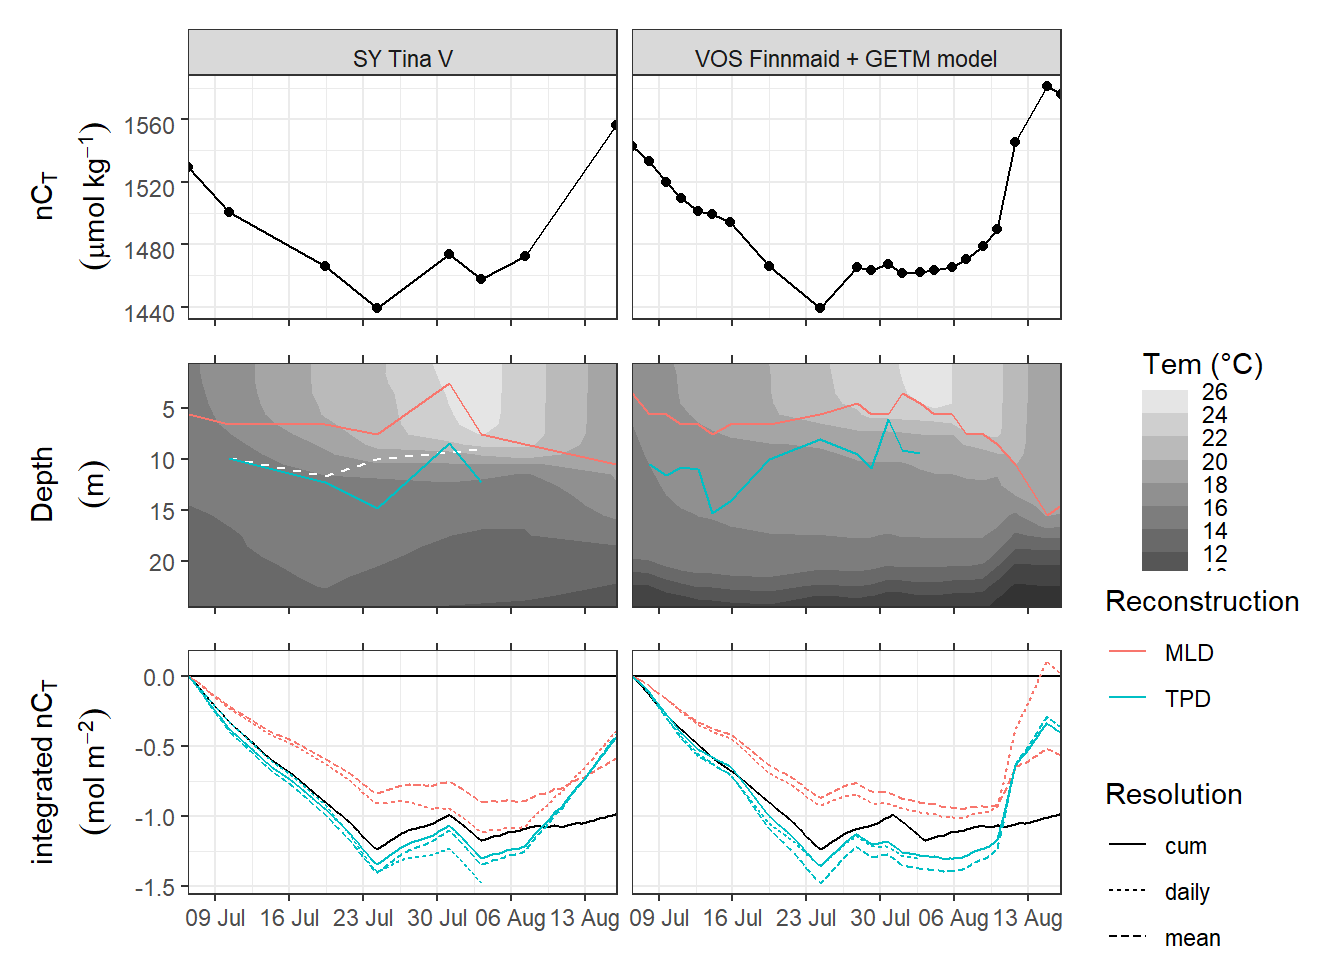
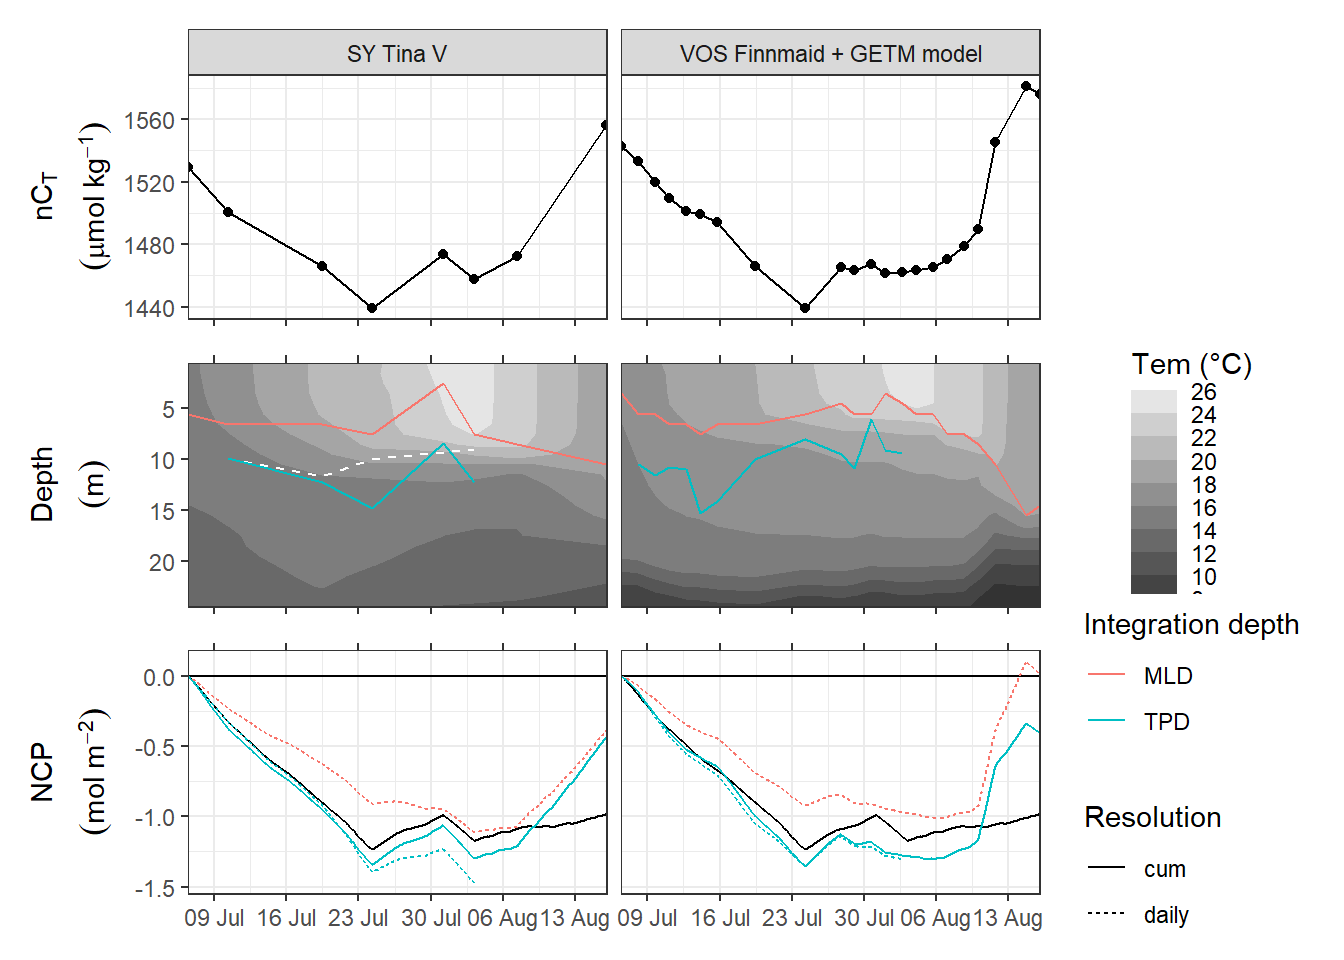
Build site.

diff --git a/docs/NCP_reconstruction.html b/docs/NCP_reconstruction.html
@@ -433,7 +433,7 @@ div.tocify {
 
 <h1 class="title toc-ignore">NCP reconstruction</h1>
 <h4 class="author">Jens Daniel Müller</h4>
-<h4 class="date">29 June, 2020</h4>
+<h4 class="date">01 July, 2020</h4>
 
 </div>
 
@@ -458,7 +458,7 @@ div.tocify {
 <div class="tab-content">
 <div id="summary" class="tab-pane fade in active">
 <p>
-<strong>Last updated:</strong> 2020-06-29
+<strong>Last updated:</strong> 2020-07-01
 </p>
 <p>
 <strong>Checks:</strong> <span class="glyphicon glyphicon-ok text-success" aria-hidden="true"></span> 7 <span class="glyphicon glyphicon-exclamation-sign text-danger" aria-hidden="true"></span> 0
@@ -549,16 +549,16 @@ This reproducible <a href="http://rmarkdown.rstudio.com">R Markdown</a> analysis
 <div class="panel panel-default">
 <div class="panel-heading">
 <p class="panel-title">
-<a data-toggle="collapse" data-parent="#workflowr-checks" href="#strongRepositoryversionstrongahrefhttpsgithubcomjensdanielmuellerBloomSailtree1461cb6d5fb3802d6d60858e4d204f6bc685b04ctargetblank1461cb6a"> <span class="glyphicon glyphicon-ok text-success" aria-hidden="true"></span> <strong>Repository version:</strong> <a href="https://github.com/jens-daniel-mueller/BloomSail/tree/1461cb6d5fb3802d6d60858e4d204f6bc685b04c" target="_blank">1461cb6</a> </a>
+<a data-toggle="collapse" data-parent="#workflowr-checks" href="#strongRepositoryversionstrongahrefhttpsgithubcomjensdanielmuellerBloomSailtree857208b9e951dea10fb480977fe4b52fba0d7309targetblank857208ba"> <span class="glyphicon glyphicon-ok text-success" aria-hidden="true"></span> <strong>Repository version:</strong> <a href="https://github.com/jens-daniel-mueller/BloomSail/tree/857208b9e951dea10fb480977fe4b52fba0d7309" target="_blank">857208b</a> </a>
 </p>
 </div>
[2 lines of base64/hex data omitted]
 <div class="panel-body">
 <p>
 Great! You are using Git for version control. Tracking code development and connecting the code version to the results is critical for reproducibility.
 </p>
 <p>
-The results in this page were generated with repository version <a href="https://github.com/jens-daniel-mueller/BloomSail/tree/1461cb6d5fb3802d6d60858e4d204f6bc685b04c" target="_blank">1461cb6</a>. See the <em>Past versions</em> tab to see a history of the changes made to the R Markdown and HTML files.
+The results in this page were generated with repository version <a href="https://github.com/jens-daniel-mueller/BloomSail/tree/857208b9e951dea10fb480977fe4b52fba0d7309" target="_blank">857208b</a>. See the <em>Past versions</em> tab to see a history of the changes made to the R Markdown and HTML files.
 </p>
 <p>
 Note that you need to be careful to ensure that all relevant files for the analysis have been committed to Git prior to generating the results (you can use <code>wflow_publish</code> or <code>wflow_git_commit</code>). workflowr only checks the R Markdown file, but you know if there are other scripts or data files that it depends on. Below is the status of the Git repository when the results were generated:
@@ -583,6 +583,9 @@ Untracked files:
     Untracked:  code/Vertical entrainment flux III.pdf
     Untracked:  output/Plots/Figures_publication/Appendix/Phytoplankton_mean_total_biomass.png
     Untracked:  output/Plots/Figures_publication/Appendix/TPD_CPD_cumulative.png
+    Untracked:  output/Plots/Figures_publication/Appendix/pCO2_RT_corrected_profile_example.png
+    Untracked:  output/Plots/Figures_publication/Appendix/pCO2_RT_corrected_profile_mean_abs_offset.png
+    Untracked:  output/Plots/Figures_publication/Appendix/tau_fit_example.png
     Untracked:  output/Plots/Figures_publication/Appendix/tb_profiles.png
     Untracked:  output/Plots/Figures_publication/Article/Hov_abs_profiles_cum.png
     Untracked:  output/Plots/Figures_publication/Article/atm_water_timeseries.png
@@ -591,14 +594,6 @@ Untracked files:
     Untracked:  output/Plots/Figures_publication/Article/reconstruction_NCP_timeseries.png
     Untracked:  output/Plots/Figures_publication/Article/reconstruction_iCT_timeseries.png
     Untracked:  output/Plots/Figures_publication/Article/station_map.png
-
-Unstaged changes:
-    Modified:   output/Plots/Figures_publication/Appendix/tb_profiles.pdf
-    Modified:   output/Plots/Figures_publication/Article/Hov_abs_profiles_cum.pdf
-    Modified:   output/Plots/Figures_publication/Article/atm_water_timeseries.pdf
-    Modified:   output/Plots/Figures_publication/Article/data_coverage.pdf
-    Modified:   output/Plots/Figures_publication/Article/profiles_all.pdf
-    Modified:   output/Plots/Figures_publication/Article/station_map.pdf
 
 </code></pre>
 <p>
@@ -637,6 +632,40 @@ Message
 </tr>
 </thead>
 <tbody>
+<tr>
+<td>
+Rmd
+</td>
+<td>
+<a href="https://github.com/jens-daniel-mueller/BloomSail/blob/857208b9e951dea10fb480977fe4b52fba0d7309/analysis/NCP_reconstruction.Rmd" target="_blank">857208b</a>
+</td>
+<td>
+jens-daniel-mueller
+</td>
+<td>
+2020-07-01
+</td>
+<td>
+update NCP recon figure
+</td>
+</tr>
+<tr>
+<td>
+html
+</td>
+<td>
+<a href="https://rawcdn.githack.com/jens-daniel-mueller/BloomSail/c919fb743c6cae42f04422da1cdbb7655aa112fc/docs/NCP_reconstruction.html" target="_blank">c919fb7</a>
+</td>
+<td>
+jens-daniel-mueller
+</td>
+<td>
+2020-06-29
+</td>
+<td>
+Build site.
+</td>
+</tr>
 <tr>
 <td>
 Rmd
@@ -2273,17 +2302,18 @@ ggsave(here::here(&quot;output/Plots/Figures_publication/article&quot;, &quot;re
 #                              `SY Tina V` = &quot;tm&quot;))
 
 p_NCP &lt;- NCP_flux_int %&gt;% 
+  filter(i_res %in% c(&quot;daily&quot;, &quot;cum&quot;)) %&gt;% 
   ggplot()+
   geom_hline(yintercept = 0)+
   geom_path(data=tm_NCP_cum, aes(date_time, nCT_i_flux_mix_cum), col=&quot;black&quot;)+
   geom_path(aes(date_time, nCT_i_flux_cum, col=i_method, linetype=i_res))+
-  scale_color_discrete(name = &quot;Reconstruction&quot;)+
+  scale_color_discrete(name = &quot;Integration depth&quot;)+
   scale_x_datetime(breaks = &quot;week&quot;, date_labels = &quot;%d %b&quot;,
                    sec.axis = dup_axis(),
                    expand = c(0,0))+
   scale_linetype(name=&quot;Resolution&quot;)+
   facet_wrap(~source)+
-  labs(y=expression(atop(integrated~nC[T], (mol~m^{-2}))))+
+  labs(y=expression(atop(NCP, (mol~m^{-2}))))+
   guides(color = guide_legend(order = 1))+
   theme(axis.title.x = element_blank(),
         strip.background = element_blank(),
@@ -2293,10 +2323,10 @@ p_NCP &lt;- NCP_flux_int %&gt;%
 p_nCT / p_hov_dep / p_NCP</code></pre>
 <p><img src="figure/NCP_reconstruction.Rmd/NCP_time_series-1.png" width="672" style="display: block; margin: auto;" /></p>
 <pre class="r"><code>ggsave(here::here(&quot;output/Plots/Figures_publication/article&quot;, &quot;reconstruction_NCP_timeseries.pdf&quot;),
-       width = 190, height = 200, dpi = 300, units = &quot;mm&quot;)
+       width = 220, height = 200, dpi = 300, units = &quot;mm&quot;)
 
 ggsave(here::here(&quot;output/Plots/Figures_publication/article&quot;, &quot;reconstruction_NCP_timeseries.png&quot;),
-       width = 190, height = 200, dpi = 300, units = &quot;mm&quot;)</code></pre>
+       width = 220, height = 200, dpi = 300, units = &quot;mm&quot;)</code></pre>
 <br>
 <p>
 <button type="button" class="btn btn-default btn-workflowr btn-workflowr-sessioninfo" data-toggle="collapse" data-target="#workflowr-sessioninfo" style="display: block;">
